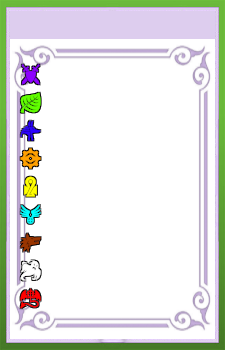
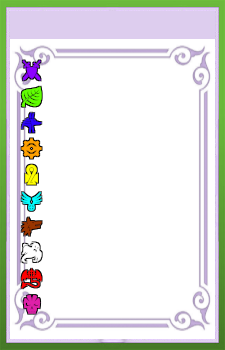
Adição de ícone de mortos-vivos

Changed region(s): [[0.0622, 0.1714, 0.2178, 0.9143]]

diff --git a/src/main/java/com/kuuhaku/handlers/games/tabletop/games/shoukan/Field.java b/src/main/java/com/kuuhaku/handlers/games/tabletop/games/shoukan/Field.java
@@ -110,12 +110,13 @@ public class Field implements Drawable, Cloneable {
 				Color.cyan,
 				Color.decode("#993500"),
 				Color.white,
-				Color.red
+				Color.red,
+				Color.magenta
 		};
 		int i = 0;
-		for (Race r : new Race[]{Race.HUMAN, Race.ELF, Race.BESTIAL, Race.MACHINE, Race.DIVINITY, Race.MYSTICAL, Race.CREATURE, Race.SPIRIT, Race.DEMON}) {
+		for (Race r : new Race[]{Race.HUMAN, Race.ELF, Race.BESTIAL, Race.MACHINE, Race.DIVINITY, Race.MYSTICAL, Race.CREATURE, Race.SPIRIT, Race.DEMON, Race.UNDEAD}) {
 			g2d.setColor(colors[i]);
-			Profile.drawOutlinedText(Helper.toPercent(field.getModifiers().getOrDefault(r, 1f)), 45, 86 + (28 * i), g2d);
+			Profile.drawOutlinedText(Helper.toPercent(field.getModifiers().getOrDefault(r, 1f)), 45, 59 + (26 * i), g2d);
 			i++;
 		}
 
